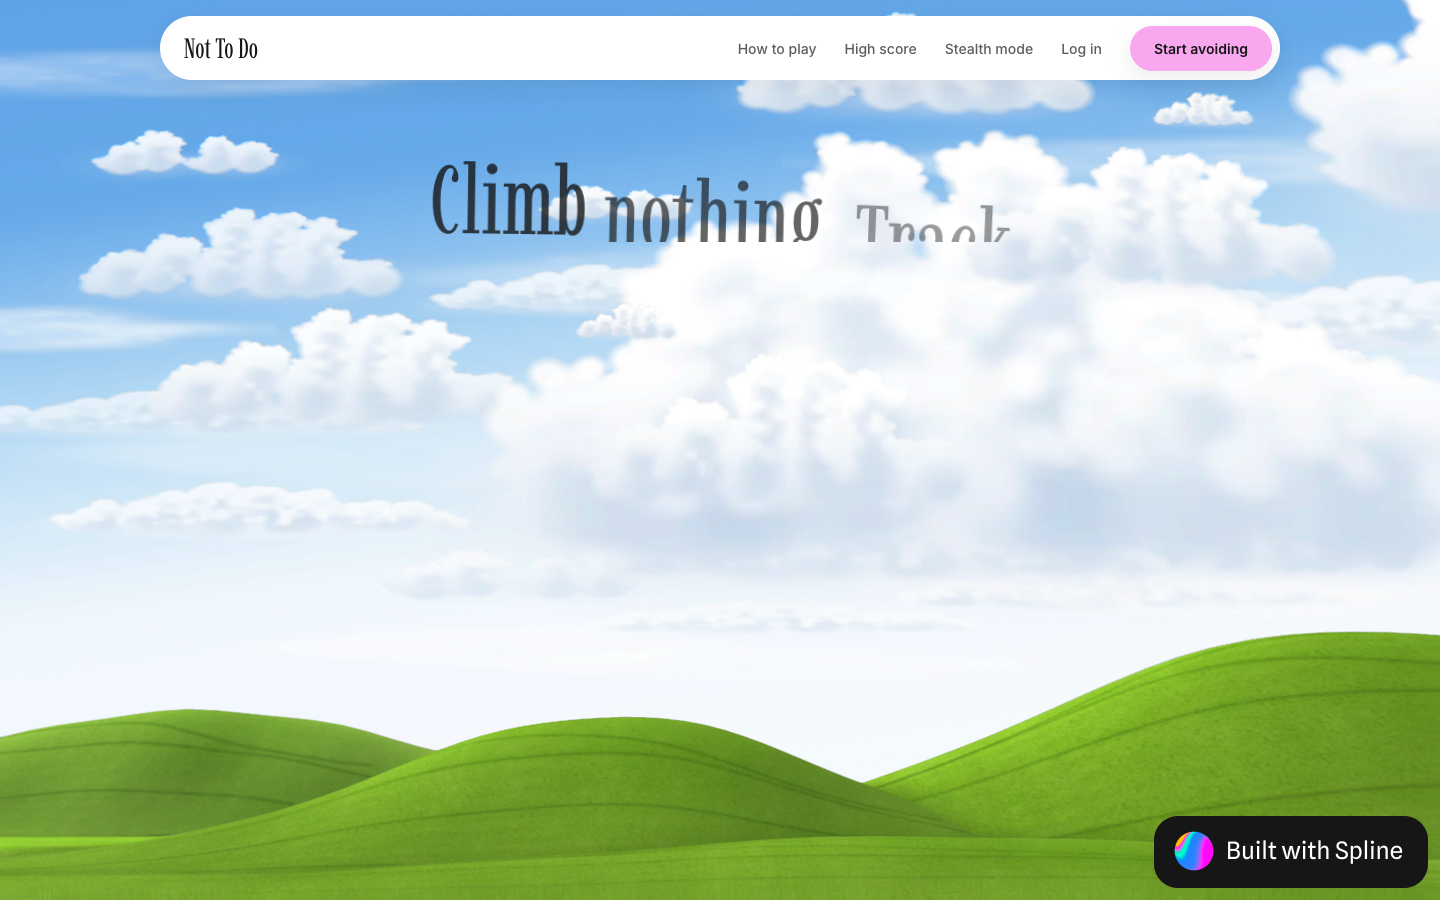
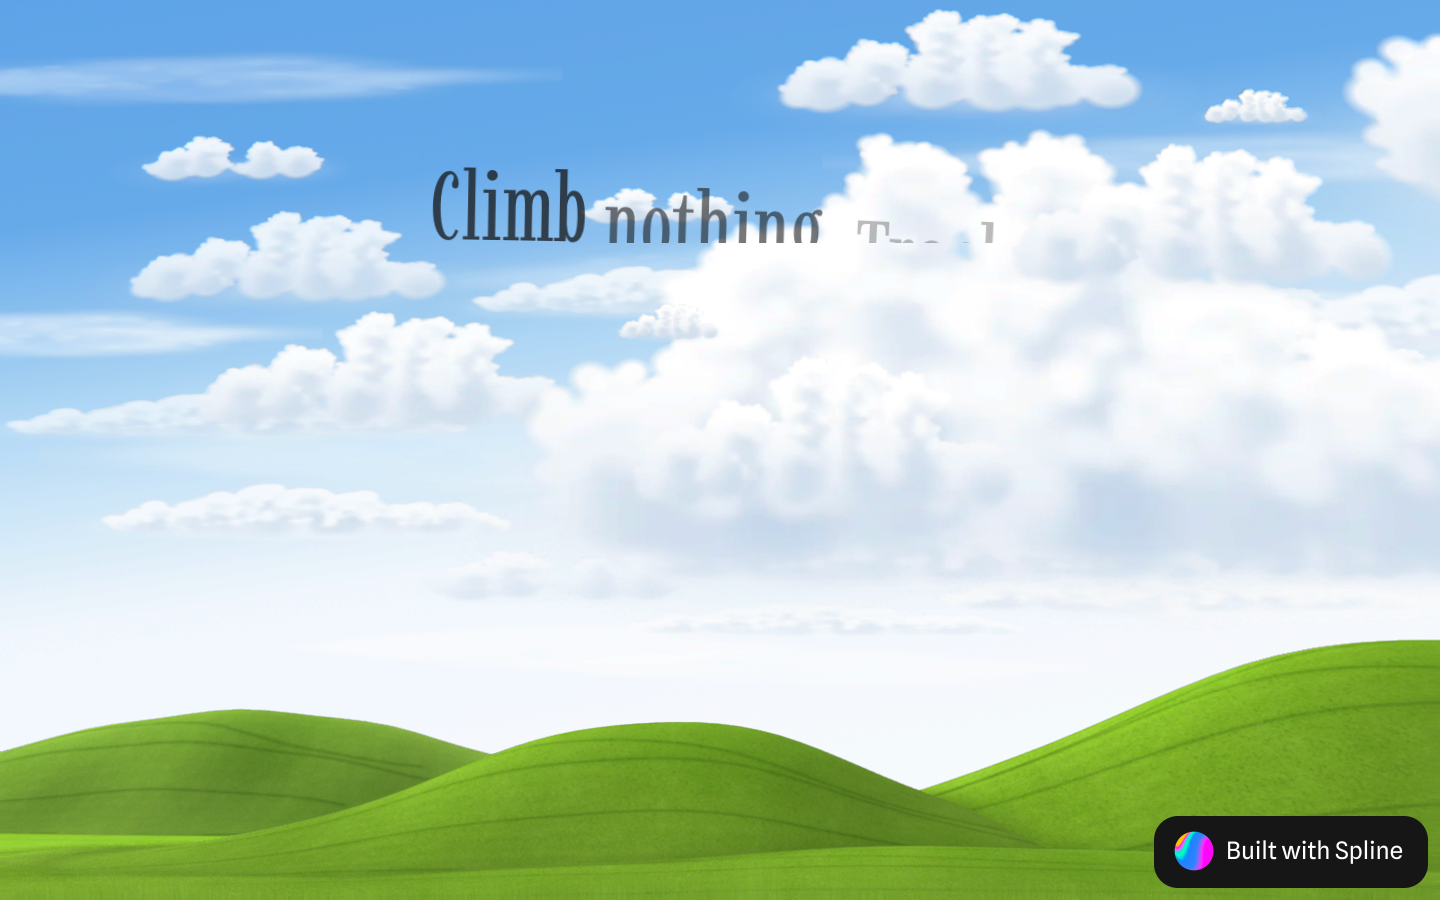
Header stays on below the hero, takes its slot in the hero entrance; menu focus fix

diff --git a/src/hero.js b/src/hero.js
@@ -45,6 +45,9 @@ export function initHero() {
   const nav = document.getElementById('nav');
   hero.style.setProperty('--words', words.length);
   hero.classList.add('is-hero-ready'); // from here on, the hidden "before" state applies
+  // The header is part of this entrance: until it plays, the header waits (nav.css), even if
+  // intro.js already says it may show. play() releases it with its delay for step 3.
+  root.classList.add('is-hero-pending');
 
   let played = false;
   let visible = false;
@@ -68,6 +71,7 @@ export function initHero() {
     }
     void hero.offsetWidth; // commit the hidden state so the transition has somewhere to start
     hero.classList.add('is-hero-in');
+    root.classList.remove('is-hero-pending');
     const wordsEnd = lastWord + tokenMs('--duration-hero-word', 1100);
     const itemsEnd = lastWord + 4 * step + tokenMs('--duration-hero-item', 800);
     clearTimeout(doneTimer);
@@ -80,6 +84,7 @@ export function initHero() {
     played = false;
     clearTimeout(doneTimer);
     hero.classList.remove('is-hero-in', 'is-hero-done');
+    root.classList.add('is-hero-pending');
   };
 
   const check = () => {
@@ -93,6 +98,9 @@ export function initHero() {
     visible = entry.intersectionRatio >= 0.5;
     // Fully below the screen again (reader went back up into the intro): ready to replay.
     if (!entry.isIntersecting && entry.boundingClientRect.top > 0) reset();
+    // Already past the hero (for example opened at a section link): count it as played,
+    // so the header is not held back.
+    if (!entry.isIntersecting && entry.boundingClientRect.bottom <= 0) play(0);
     check();
   }, { threshold: [0, 0.5] }).observe(content);
 

diff --git a/src/intro.js b/src/intro.js
@@ -163,13 +163,22 @@ export function initIntro() {
     }
   }
 
-  // Hero reached: show the nav, hide "Skip intro".
-  const observer = new IntersectionObserver(([entry]) => {
-    const past = entry.isIntersecting;
+  // Hero reached (its top is in the upper 40% of the screen, or the reader is further down the page):
+  // show the nav, hide "Skip intro". Back in the intro: the reverse.
+  // Checked on scroll (once per frame) so even a jump straight back to the top is caught.
+  let pastState = null;
+  let pastFrame = 0;
+  const checkPast = () => {
+    pastFrame = 0;
+    const past = hero.getBoundingClientRect().top < window.innerHeight * 0.4;
+    if (past === pastState) return;
+    pastState = past;
     root.classList.toggle('is-past-intro', past);
     if (nav) { nav.inert = !past; nav.classList.toggle('is-shown', past); } // nav.css decides how it appears
-  }, { threshold: 0.6 });
-  observer.observe(hero);
+  };
+  window.addEventListener('scroll', () => { if (!pastFrame) pastFrame = requestAnimationFrame(checkPast); }, { passive: true });
+  window.addEventListener('resize', checkPast);
+  checkPast();
 
   // One-time idle dip: camera eases toward the hero and the headline peeks in from below.
   let dip = null;

diff --git a/src/nav.js b/src/nav.js
@@ -26,7 +26,13 @@ export function initNav() {
       if (focusButton) button.focus({ preventScroll: true });
     };
     button.addEventListener('click', () => (isOpen() ? close() : open()));
-    panel.addEventListener('click', (event) => { if (event.target.closest('a')) close(); });
+    // Link in the panel: close, let the browser jump, then put focus back on the Menu button
+    // (the jump itself would otherwise drop focus to the page).
+    panel.addEventListener('click', (event) => {
+      if (!event.target.closest('a')) return;
+      close({ focusButton: false });
+      requestAnimationFrame(() => button.focus({ preventScroll: true }));
+    });
     document.addEventListener('keydown', (event) => { if (event.key === 'Escape') close(); });
     document.addEventListener('pointerdown', (event) => { if (!nav.contains(event.target)) close({ focusButton: false }); });
     // Header hidden (back in the intro) or screen widened past the phone layout: close quietly.

diff --git a/src/styles/sections/nav.css b/src/styles/sections/nav.css
@@ -88,14 +88,15 @@
 /* Show and hide (JS only; without JS the header is simply there).
    Hidden: above the screen, faded, out of reach (visibility also keeps it out of the Tab order).
    Arriving: slides down and fades in with the hero's soft landing, waiting --nav-delay
-   (set by hero.js for its slot in the hero entrance). Leaving: slides back up, quicker start. */
+   (set by hero.js for its slot in the hero entrance). Leaving: slides back up, quicker start.
+   is-hero-pending (hero.js): the hero entrance has not started yet, so the header waits for it. */
 .js .nav {
   transition:
     opacity var(--duration-nav) var(--ease-exit),
     translate var(--duration-nav) var(--ease-exit),
     visibility 0s linear var(--duration-nav);
 }
-.js .nav:not(.is-shown), .is-intro-lingering .nav {
+.js .nav:not(.is-shown), .is-intro-lingering .nav, .is-hero-pending .nav {
   opacity: 0;
   translate: 0 calc(-100% - var(--offset-nav-top));
   visibility: hidden;

diff --git a/prototype/contrast.py b/prototype/contrast.py
@@ -1,0 +1,35 @@
+# Throwaway: WCAG contrast of text against what sits behind it, from a screenshot.
+# Usage: python3 -I prototype/contrast.py <png> <text hex> <name> <l,t,r,b> [<name> <l,t,r,b> ...]
+# For each box: samples the background in a 10px ring around it. Reports the lowest ratio and the median.
+import sys
+from PIL import Image
+
+def lum(rgb):
+    def ch(c):
+        c = c / 255
+        return c / 12.92 if c <= 0.03928 else ((c + 0.055) / 1.055) ** 2.4
+    r, g, b = rgb[:3]
+    return 0.2126 * ch(r) + 0.7152 * ch(g) + 0.0722 * ch(b)
+
+def ratio(a, b):
+    hi, lo = max(a, b), min(a, b)
+    return (hi + 0.05) / (lo + 0.05)
+
+img = Image.open(sys.argv[1]).convert('RGB')
+text = tuple(int(sys.argv[2][i:i + 2], 16) for i in (0, 2, 4))
+tl = lum(text)
+args = sys.argv[3:]
+for name, box in zip(args[0::2], args[1::2]):
+    l, t, r, b = [int(v) for v in box.split(',')]
+    # Background = a ring just outside the text box (no glyph pixels there), plus the gaps between lines
+    # are ignored on purpose. The text box itself is the element's box from the page.
+    bg = []
+    for y in range(max(t - 12, 0), min(b + 12, img.height), 2):
+        for x in range(max(l - 12, 0), min(r + 12, img.width), 2):
+            inside = l - 2 <= x <= r + 2 and t - 2 <= y <= b + 2
+            if not inside:
+                bg.append(lum(img.getpixel((x, y))))
+    bg.sort()
+    lowest = min(ratio(tl, v) for v in bg)
+    med = ratio(tl, bg[len(bg) // 2])
+    print(f'{name}: lowest {lowest:.1f}:1, median {med:.1f}:1')
